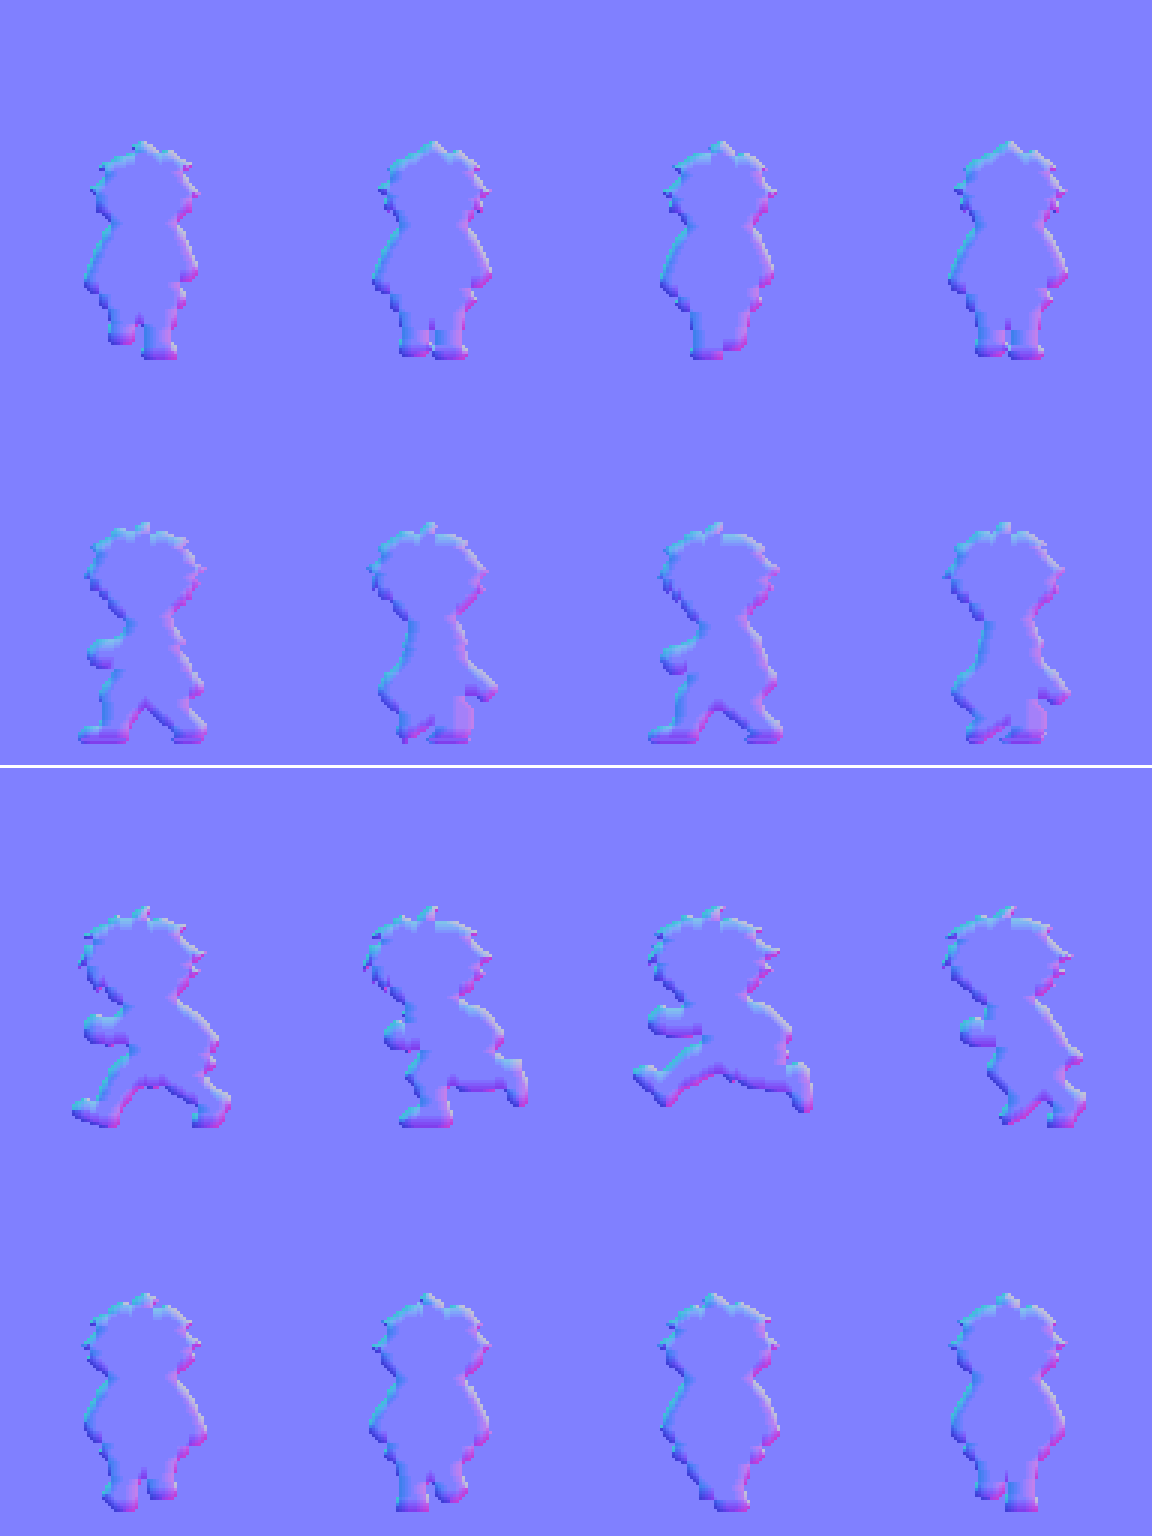
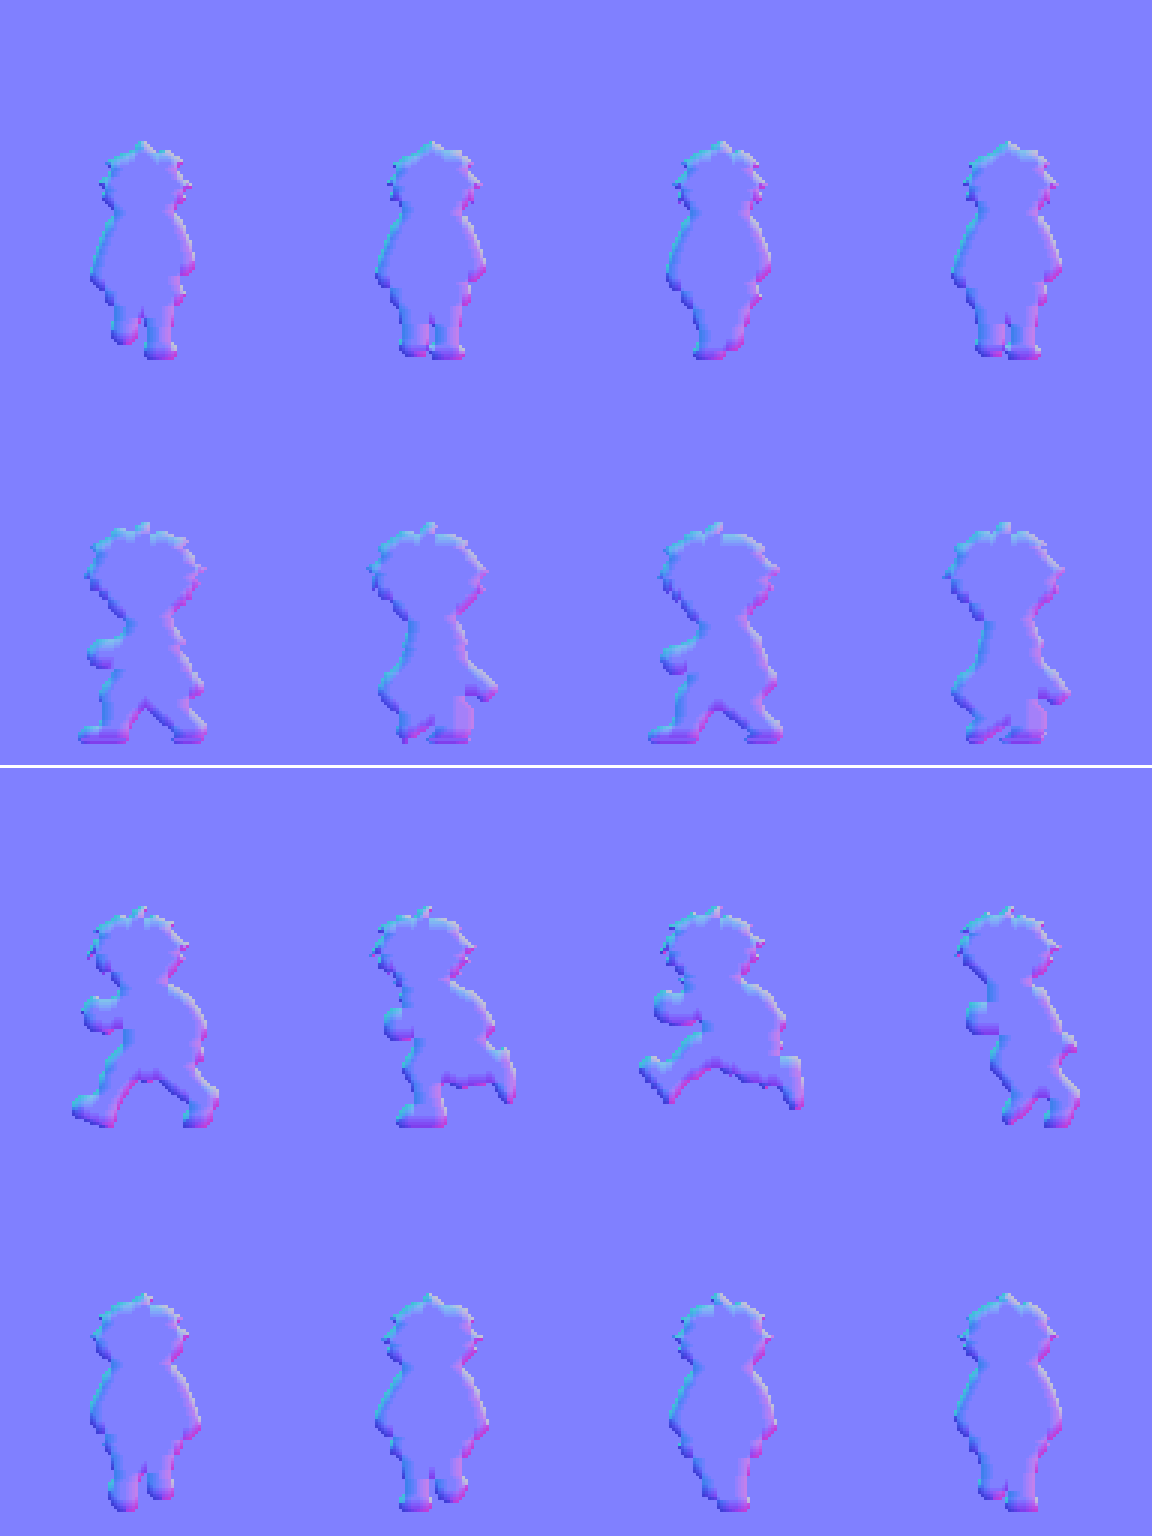
D-091: hero walk/run head and shoulders matched to idle proportion

diff --git a/Docs/References/claude_hero_proportion_v1/proportion.py b/Docs/References/claude_hero_proportion_v1/proportion.py
@@ -1,0 +1,118 @@
+# 걷기·달리기 머리·어깨 비율을 서 있기 그림에 맞춘다: 코덱스 시안(K-139·K-140)에서 머리와 몸을 나눠 따로 줄인 뒤 다시 붙인다
+from PIL import Image;import numpy as np,collections,math,sys
+S='C:/Users/User/AppData/Local/Temp/claude/C--Unity-1-HumanLastRampart/9f0dc00c-aa09-4284-9d23-fb368fa7bf5d/scratchpad'
+G='C:/Unity/1/HumanLastRampart/Game/Assets/_Project/Art/Characters/Hero/hero_walk_run_grid'
+HK_WALK,HK_RUN,WK=[float(v) for v in sys.argv[1:4]] if len(sys.argv)>3 else (0.85,0.80,0.92)
+cur=np.array(Image.open(G+'.png'));curn=np.array(Image.open(G+'_normal.png'))
+pal=collections.Counter();edge=collections.Counter()
+for r in (0,2,3):
+  c=cur[r*384:(r+1)*384];op=c[:,:,3]>128
+  for y,x in zip(*np.where(op)):
+    if y%3 or x%3: continue
+    col=tuple(c[y,x,:3]);pal[col]+=1
+    if 3<=x<c.shape[1]-3 and y+3<384 and (not op[y+3,x] or not op[y,x-3] or not op[y,x+3]): edge[col]+=1
+P=np.array([k for k,v in pal.items() if v>=3],float);outline=np.array(edge.most_common(1)[0][0])
+
+def scale(f,w,h):
+  a=f[:,:,3]/255.0
+  pm=np.dstack([f[:,:,:3]*a[:,:,None],a*255])
+  return np.array(Image.fromarray(pm.clip(0,255).astype(np.uint8),'RGBA').resize((max(1,w),max(1,h)),Image.BOX)).astype(float)
+
+def native(f,NH,hk,wk):
+  """f: 시안 한 사람(위 끝~땅). 목에서 나눠 머리는 hk배, 몸은 가로 wk배로 줄이고 세로는 전체 NH가 되게 채운다"""
+  al=f[:,:,3]>128;H,W=al.shape
+  rows=np.where(al.any(1))[0];top=rows[0]
+  wid=al.sum(1)
+  lo,hi=top+int((H-top)*0.22),top+int((H-top)*0.45)
+  neck=lo+int(wid[lo:hi].argmin())
+  xs=np.where(al[neck])[0];ncx=(xs[0]+xs[-1]+1)/2
+  s0=NH/H
+  hh=round(neck*s0*hk);hw=round(W*s0*hk)
+  bh=NH-hh;bw=round(W*s0*wk)
+  head=scale(f[:neck],hw,hh);body=scale(f[neck:],bw,bh)
+  CW=2*max(hw,bw)+8;out=np.zeros((NH,CW,4))
+  cx=CW/2
+  hx=int(round(cx-ncx*hw/W));bx=int(round(cx-ncx*bw/W))
+  out[hh:,bx:bx+bw]=body
+  # 머리는 몸 위에 덮는다 (머리카락이 어깨를 살짝 덮는 자리)
+  ha=head[:,:,3:4]/255.0;reg=out[:hh,hx:hx+hw]
+  out[:hh,hx:hx+hw]=head+reg*(1-ha)
+  na=out[:,:,3]/255.0;op=na>0.5
+  rgb=np.where(op[:,:,None],out[:,:,:3]/np.maximum(na,1e-3)[:,:,None],0)
+  q=P[((rgb[:,:,None,:]-P[None,None])**2).sum(-1).argmin(-1)]
+  pad=np.pad(op,1);border=op&~(pad[:-2,1:-1]&pad[2:,1:-1]&pad[1:-1,:-2]&pad[1:-1,2:]);q[border]=outline
+  xs=np.where(op.any(0))[0];q=q[:,xs[0]-1:xs[-1]+2];op=op[:,xs[0]-1:xs[-1]+2]
+  cols=np.where(op[:int(NH*0.55)].any(0))[0];anchor=(cols[0]+cols[-1]+1)/2
+  return q,op,anchor
+
+def place(sheet,row,k,q,op,anchor):
+  big=np.kron(np.dstack([q,op*255.0]),np.ones((3,3,1)))
+  oy=row*384+360-big.shape[0];ox=k*288+144-int(round(anchor))*3
+  reg=sheet[oy:oy+big.shape[0],ox:ox+big.shape[1]];m=big[:,:,3]>0;reg[m]=big[m].astype(np.uint8)
+
+sheet=cur.copy();sheet[0:384]=0;sheet[2*384:]=0
+# K-139: 앞·뒤 걷기 (행 0 = 시안 위줄, 행 3 = 시안 아래줄)
+con=np.array(Image.open(S+'/k139_concept.png')).astype(float);al=con[:,:,3]>40
+order={0:[0,1,3,1],3:[0,2,3,1]}
+for (y0,y1),row in zip([(47,422),(463,845)],(0,3)):
+  xs=np.where(al[y0:y1].any(0))[0];runs=[];s=xs[0];p=xs[0]
+  for x in xs[1:]:
+    if x>p+1: runs.append((s,p+1));s=x
+    p=x
+  runs.append((s,p+1));runs=[r for r in runs if r[1]-r[0]>20]
+  figs=[]
+  for (x0,x1) in runs:
+    f=con[y0:y1,x0:x1];ys=np.where((f[:,:,3]/255).max(1)>0.15)[0];f=f[ys[0]:ys[-1]+1].copy()
+    figs.append(native(f,73,HK_WALK,WK))
+  for k,src in enumerate(order[row]): place(sheet,row,k,*figs[src])
+# K-140: 옆 달리기 (공통 위·땅 범위, 3번 칸은 공중 자세라 살짝 뜬다)
+con=np.array(Image.open(S+'/k140_concept.png')).astype(float)
+TOP,GROUND=116,643
+for k,(x0,x1) in enumerate([(81,467),(614,1015),(1121,1551),(1685,2032)]):
+  f=con[TOP:GROUND,x0-4:x1+4].copy();f[f[:,:,3]<128]=0
+  place(sheet,2,k,*native(f,74,HK_RUN,WK))
+# 달리기 1번 칸 뒷장화 발뒤꿈치 아래 모서리를 한 점 둥글게 (곧은 옆선 33칸 -> 30칸)
+Y0=2*384;X0=288
+sheet[Y0+330:Y0+333,X0+225:X0+228]=0;sheet[Y0+330:Y0+333,X0+222:X0+225]=(*outline.astype(np.uint8),255)
+assert (sheet[384:768]==cur[384:768]).all()
+T=[0.52,0.42,0.29,0.15];tilt=lambda d:T[d] if d<4 else 0.0
+norm=curn.copy()
+for sr in (0,2,3):
+  norm[sr*384:(sr+1)*384]=(128,128,255,255)
+  for k in range(4):
+    a=sheet[sr*384:(sr+1)*384:3,k*288:(k+1)*288:3,3]>128;H,W=a.shape
+    for y in range(H):
+      for x in range(W):
+        if not a[y,x]: continue
+        def run(dy,dx):
+          d=0
+          while 0<=y+(d+1)*dy<H and 0<=x+(d+1)*dx<W and a[y+(d+1)*dy,x+(d+1)*dx]: d+=1
+          return d
+        dl,dr,du,dd=run(0,-1),run(0,1),run(-1,0),run(1,0)
+        sx=-tilt(dl) if dl<dr else (tilt(dr) if dr<dl else 0.0);sy=tilt(du) if du<dd else (-tilt(dd) if dd<du else 0.0)
+        z=math.sqrt(max(0.0,1-sx*sx-sy*sy));l=math.sqrt(sx*sx+sy*sy+z*z)
+        Y=sr*384+y*3;X=k*288+x*3;norm[Y:Y+3,X:X+3]=(round(128+127*sx/l),round(128+127*sy/l),round(128+127*z/l),255)
+Image.fromarray(sheet).save(S+'/prop/sheet.png');Image.fromarray(norm).save(S+'/prop/sheet_normal.png')
+bad=[]
+for r in range(4):
+  for c in range(4):
+    cell=sheet[r*384:(r+1)*384,c*288:(c+1)*288];op=cell[:,:,3]>128;tr=cell[:,:,3]<20;best=0
+    for d in (-1,1):
+      for x in range(1,287):
+        rn=0
+        for y in range(384):
+          if op[y,x] and tr[y,x+d]: rn+=1;best=max(best,rn)
+          else: rn=0
+    ys=np.where(op.any(1))[0];b=ys[-1];rw=cell[b][op[b]];dark=((rw[:,0]<55)&(rw[:,1]<55)&(rw[:,2]<55)).sum()
+    if best>30 or dark<len(rw)*0.85 or b!=359 and r!=2: bad.append((r,c,best,dark,len(rw),b))
+print('BAD',bad)
+# 비교: 궁수, 주인공 서 있기, 앞 걷기 0, 뒤 걷기 0, 달리기 0·2 — 위 지금, 아래 새것
+R='C:/Unity/1/HumanLastRampart/Game/Assets/_Project/Art/Characters/'
+arch=Image.open(R+'Static/archer_static.png').convert('RGBA');idle=Image.open(R+'Hero/hero_back_idle.png').convert('RGBA')
+def cell(a,r,c): return Image.fromarray(a[r*384:(r+1)*384,c*288:(c+1)*288])
+pv=Image.new('RGBA',(288*7,500),(70,72,90,255))
+for i,(r,c) in enumerate([(3,0),(3,2),(0,0),(2,0),(2,2)]):
+  pv.alpha_composite(cell(cur,r,c).crop((0,130,288,380)),(288*(i+2),0));pv.alpha_composite(cell(sheet,r,c).crop((0,130,288,380)),(288*(i+2),250))
+for y in (0,250):
+  pv.alpha_composite(arch.crop((0,130,288,380)),(0,y));pv.alpha_composite(idle.crop((0,130,288,380)),(288,y))
+pv.save(S+'/photos/prop_compare.png')

diff --git a/Game/Assets/_Project/Combat/Tests/HeroSheetEdgeTests.cs b/Game/Assets/_Project/Combat/Tests/HeroSheetEdgeTests.cs
@@ -13,6 +13,7 @@ namespace HumanLastRampart.Combat.Tests
     // 앞·뒤 걷기 행(0·3)은 한쪽 다리가 외투 밑에서 끊겨 있어 서 있는 뒷모습 그림의 두 다리로 바꿨다 (2026-11-02, 사용자 허락으로 Claude가 고침)
     // 그 뒤 앞·뒤 걷기 행은 코덱스 K-139 새 시안을 Claude가 게임 격자·색에 맞춰 다듬은 그림으로 바꿨다 (D-088)
     // 달리기 행(행 2)도 코덱스 K-140 새 시안을 다듬은 그림으로 바꿨다 — 2·3번 칸 뒷발이 장화 모양 없는 덩어리였다 (D-089)
+    // 그 뒤 걷기·달리기 머리가 서 있기 그림보다 커서 시안에서 머리·몸을 따로 줄여 다시 맞췄다 (D-091)
     public sealed class HeroSheetEdgeTests
     {
         const string Dir = "_Project/Art/Characters/Hero/";

diff --git a/Docs/collab/rules/DECISIONS.md b/Docs/collab/rules/DECISIONS.md
@@ -788,3 +788,9 @@
 ## D-090 주인공 깊이 당김 0.8m → 0.3m (2026-11-02)
 - 사용자: "원근감이 느껴지고 활쏘는 상대 앞으로 가면 내가 더 뒤에 있다가 보였는데 지금은 그런게 아예 안보이네?" → 선택 "당김을 줄인다 (추천)".
 - W49의 0.8m 당김은 앞줄 병사에 가리는 것을 잘림으로 보고 넣었으나, 진짜 원인은 그림 잘림이었다(D-088·D-089). 0.3m로 줄여 병사 바로 옆을 스칠 때만 덜 가리고, 확실히 뒤에 서면 병사 뒤로 숨게 한다. D-086 결정 1을 바꾼다.
+
+## D-091 주인공 걷기·달리기 머리·어깨를 서 있기 그림 비율에 맞춤 (2026-11-03)
+- 사용자: "게임 그림체가 주인공이랑 다른 사람들이랑 비슷한거같아?" → Claude 의견(걷기·달리기만 머리가 크고 어깨가 넓다) 뒤 "너가 한번 그대로 고쳐봐 너가추천하는데로".
+- 비교(키 73칸 기준): 서 있기 머리 높이 25·폭 33, 궁수 폭 30 / 바꾸기 전 앞·뒤 걷기 머리 27~28·폭 38~41, 달리기 머리 32·폭 41~43.
+- Claude가 K-139·K-140 시안에서 목 줄로 머리와 몸을 나눠 머리는 걷기 0.85배·달리기 0.80배, 몸 가로는 0.92배로 줄이고 키는 그대로(걷기 73칸, 달리기 74칸) 채워 다시 다듬음. 색·윤곽·발 위치·빛 반사 규칙은 D-088·D-089와 같음. 달리기 1번 칸 뒷장화 뒤꿈치 모서리 한 점을 둥글게(곧은 옆선 33 → 30).
+- 행 1(옆 걷기, 게임에서 안 씀)은 그대로. 크림색 망토를 걷기·달리기에 더 살릴지는 따로 질문. 방법: Docs/References/claude_hero_proportion_v1/.
